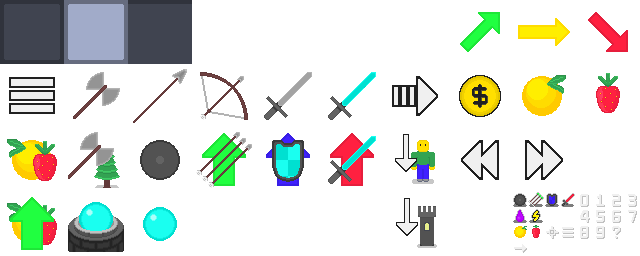
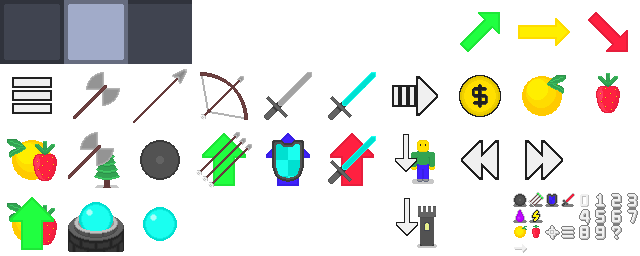
texture tweaks + history traversing not canceling moves fix

Changed region(s): [[0.8438, 0.75, 1.0, 0.9375], [0.0625, 0.3125, 0.0938, 0.4375], [0.0, 0.3125, 0.0312, 0.4375]]

diff --git a/src/game/game.cpp b/src/game/game.cpp
@@ -141,6 +141,11 @@ Game::Game(ui::Layer* game_layer, ui::Layer* ui_layer):
 
 /// Undoes last move.
 void Game::undoMove() {
+	// stop selection
+	if (map.isSelection())
+		deselectMenu();
+
+	// undo the move
 	if (auto cursor = map.history.undo()) {
 		auto tile = map.atref(*cursor);
 
@@ -157,6 +162,11 @@ void Game::undoMove() {
 
 /// Redoes last move.
 void Game::redoMove() {
+	// stop selection
+	if (map.isSelection())
+		deselectMenu();
+
+	// redo the move
 	if (auto cursor = map.history.redo()) {
 		auto tile = map.atref(*cursor);
 
